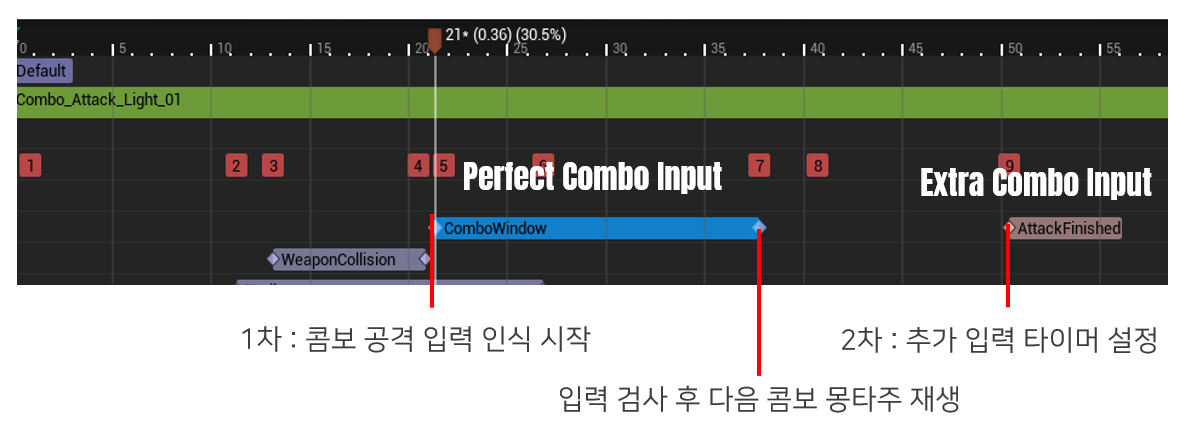
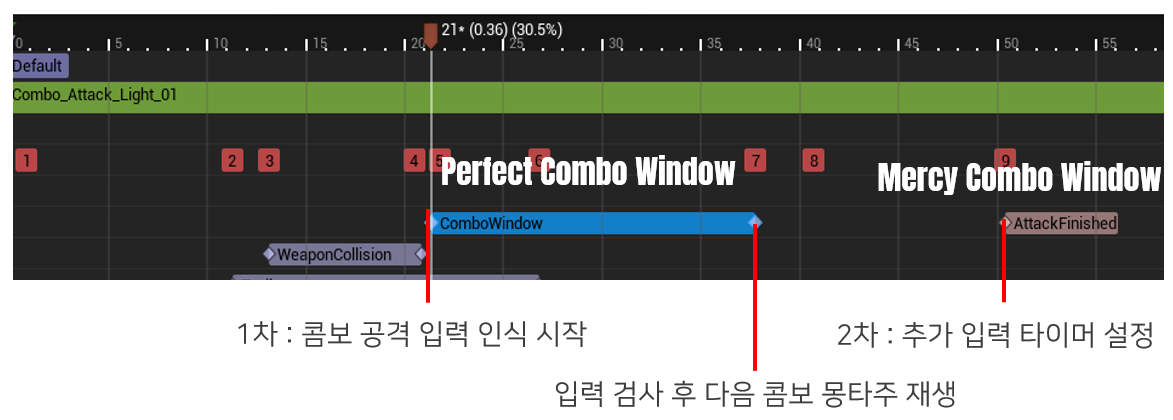
update readme

diff --git a/README.md b/README.md
@@ -35,9 +35,9 @@
 
 ## 📜 목차
 1. [Unreal Engine 5] Action RPG Project "Soul"
-2. [Dedicated Server Project] FPS Game
-3. [Team Project] Unreal Engine ver 'Overooked! 2' 모작
-4. [Custom Engine Projects] DirectX 11 2D 'HollowKnight' / WinAPI 'The Binding of Isaac'
+2. [[Dedicated Server Project] FPS Game](#-2-dedicated-server-project-fps-game)
+3. [[Team Project] Unreal Engine ver 'Overooked! 2' 모작](#-3-team-project-unreal-engine-ver-overooked-2-모작)
+4. [[Custom Engine Projects] DirectX 11 2D 'HollowKnight' 모작 / WinAPI 'The Binding of Isaac' 모작](#-4-custom-engine-projects-directx-11-2d-hollowknight-모작--winapi-the-binding-of-isaac-모작)
 
 </br>
 
@@ -63,7 +63,7 @@
 
 </br>
 
-이 프로젝트는 기능 구현보다 **구조**에 대한 고민을 담은 프로젝트입니다. </br>
+이 프로젝트는 게임 개발 **구조**에 대한 고민을 담은 프로젝트입니다. </br>
 `Tick` 사용을 최소화하고, 입력과 애니메이션 이벤트(`AnimNotify`)를 트리거로 로직을 순환시키는 이벤트 기반(Event-Driven) 구조를 목표로 삼았습니다.
 
 
@@ -175,6 +175,10 @@ ___
 
 특히 `PrimaryDataAsset`을 상속받아 필요한 시점에 비동기 로드할 수 있는 구조를 마련했습니다.
 
+<p align="center">
+ <img alt="이미지" src="readme\DataAsset1.png">
+</p>
+
 </br>
 
 **🔧구현 상세**
@@ -185,6 +189,10 @@ ___
     - [MontageActionData 코드](https://github.com/kabu0330/UE_Soul2/blob/a50d719eae8d32e24b870c4d6342dd97015d2f46/Source/Soul/DataAsset/MontageActionData.h#L11-L47)
 
 **[💡 회고 및 개선점]** 전투 시스템이 고도화되면서(백어택, 잡기 등) `FMontageGroup` 내에 발동 조건 필드가 늘어나는 현상을 겪었습니다. 모든 스킬이 해당 조건을 쓰지 않음에도 구조체가 비대해지는 문제가 있어, 추후에는 조건 검사 로직 자체를 별도의 객체나 컴포넌트로 분리하는 **데코레이터 패턴**을 도입할 예정입니다.
+
+<p align="center">
+ <img alt="이미지" src="readme\DataAsset2.png">
+</p>
 
 </br>
 
@@ -214,10 +222,10 @@ ___
  <img alt="이미지" src="readme\ComboWindow.png">
 </p>
 
-* 퍼펙트 콤보 구현: 애니메이션 시퀀스 내에 `AnimNotifyState`를 배치하여 입력 허용 구간을 시각적으로 설정하고, 해당 구간 내 입력 감지 시 즉시 몽타주 재생을 중단하고 다음 콤보를 실행합니다.
+* 퍼펙트 콤보(선입력) 구현: 애니메이션 시퀀스 내에 `AnimNotifyState`를 배치하여 입력 허용 구간을 시각적으로 설정하고, 해당 구간 내 입력 감지 시 즉시 몽타주 재생을 중단하고 다음 콤보를 실행합니다.
     - [Perfect Combo Window: 콤보 공격 선입력 실행 코드](https://github.com/kabu0330/UE_Soul2/blob/a50d719eae8d32e24b870c4d6342dd97015d2f46/Source/Soul/Components/CombatComponent.cpp#L225-L257)
     - [Perfect Combo Window: NotifyEnd() 시점 호출 코드](https://github.com/kabu0330/UE_Soul2/blob/a50d719eae8d32e24b870c4d6342dd97015d2f46/Source/Soul/Components/CombatComponent.cpp#L300-L319)
-* 자비 구간(선입력) 구현: 애니메이션 종료 직전부터 일정 시간(`Timer`) 동안 입력 플래그를 활성화하여, 뒤늦게 들어온 입력도 다음 콤보의 트리거로 인정합니다.
+* 자비 구간 구현: 애니메이션 종료 직전부터 일정 시간(`Timer`) 동안 입력 플래그를 활성화하여, 뒤늦게 들어온 입력도 다음 콤보의 트리거로 인정합니다.
     - [Mercy Combo Window 코드](https://github.com/kabu0330/UE_Soul2/blob/a50d719eae8d32e24b870c4d6342dd97015d2f46/Source/Soul/Components/CombatComponent.cpp#L279-L292)
 * 통합 공격 로직: 위 두 가지 입력 방식을 하나의 `DoAttack` 함수에서 분기 처리하여, 현재 콤보 카운트와 입력 시점에 따라 적절한 다음 행동을 결정합니다.   
     - [실제 Player 공격 함수(DoAttack) 코드](https://github.com/kabu0330/UE_Soul2/blob/a50d719eae8d32e24b870c4d6342dd97015d2f46/Source/Soul/Character/SoulPlayerCharacter.cpp#L245-L304)
@@ -271,8 +279,6 @@ ___
 
 </br>
 
-___
-
 #### 프로젝트 관련 글(Blog)
 
 * [인벤토리 시스템과 UI](https://kabu0129.tistory.com/378)
@@ -282,7 +288,7 @@ ___
 
 </br>
 
-___
+
 
 ## 📄 2. [Dedicated Server Project] FPS Game
 
@@ -301,7 +307,7 @@ ___
 | 항목 | 내용 | 항목 | 내용 |
 |:------|:-----|:-----|:-----|
 | 🖥 **플랫폼** | PC (Windows) | 🎮 **장르** | FPS |
-| 👤 **개발 인원** | 1인 | 📅 **개발 기간** | 2025.06 ~ 2025.08 |
+| 👤 **개발 인원** | 1인 | 📅 **개발 기간** | 2025.05 ~ 2025.08 |
 | 🛠 **기술 스택** | C++, Node.js, Unreal Engine 5, AWS, Rider, Git |
 | 📝 **게임 소개** | 최대 10인의 플레이어가 경쟁하는 1인칭 슈팅게임 |
 | 🎯 **핵심 목표** | 서버-클라이언트 아키텍처 및 AWS 클라우드 인프라 실전 경험 | | 
@@ -452,7 +458,7 @@ Dedicated Server는 게임 플레이 자체에 집중해야 하므로, 사용자
 
 <div style="display: flex; justify-content: space-between;">
   <img src="readme\Reflection2.png" alt="이미지 1 설명" style="width: 35%;" />
-  <img src="readme\Reflection3.png" alt="이미지 2 설명" style="width: 55%;" />
+  <img src="readme\Reflection3.png" alt="이미지 2 설명" style="width: 60%;" />
 </div>
 
 </br>
@@ -463,7 +469,7 @@ Dedicated Server는 게임 플레이 자체에 집중해야 하므로, 사용자
 
 </br>
 
-___
+
 
 #### 프로젝트 관련 글(Blog)
 
@@ -473,7 +479,7 @@ Dedicated Sever와 관련한 작업은 블로그에 과정을 기록해두었습
 
 </br>
 
-___
+
 
 ## 📄 3. [Team Project] Unreal Engine ver 'Overooked! 2' 모작
 
@@ -491,7 +497,7 @@ ___
 |:------|:-----|:-----|:-----|
 | 🖥 **플랫폼** | PC (Windows) | 🎮 **장르** | 시뮬레이션 |
 | 👤 **개발 인원** | 6인 | 📅 **개발 기간** | 2025.02 ~ 2025.05 |
-| 🛠 **개발 도구** | C++, Unreal Engine 5 |
+| 🛠 **개발 도구** | C++, Unreal Engine 5, Visual Studio, Git |
 | 📝 **게임 소개** | 최대 4인의 플레이어가 함께 재료를 전달/손질/조합하여 </br> 제한 시간 내에 최대한 많은 요리를 제출하는 협동 게임|
 | 🎯 **핵심 목표** | 협업 방식을 학습하고 멀티 플레이어 게임을 구현하는 방법을 습득 | | 
 | 📑 **주요 특징** | 데이터 기반 요리 컨텐츠 개발, 레벨 디자인, RPC / Replication | | 
@@ -508,24 +514,68 @@ ___
 
 **🚨 문제 상황**
 
-플레이어 상호작용으로 런타임에 생성되는 재료(Ingredient) 액터가 클라이언트 화면에서 보이지 않거나, 데이터(메시, 타입 등)가 비정상적으로 표시되는 문제가 발생했습니다. 원인은 SpawnActor 호출 시, 서버에서는 데이터 설정 전에 BeginPlay가 실행되고, 클라이언트에서는 데이터가 복제되기 전에 BeginPlay가 실행되는 등 초기화와 복제 타이밍의 불일치 때문이었습니다.
+플레이어 상호작용으로 런타임에 생성되는 재료(`Ingredient`) 액터가 클라이언트 화면에서 보이지 않거나, 데이터(메시, 타입 등)가 비정상적으로 표시되는 문제가 발생했습니다. 원인은 `SpawnActor` 호출 시, 서버에서는 데이터 설정 전에 `BeginPlay`가 실행되고, 클라이언트에서는 데이터가 복제되기 전에 `BeginPlay`가 실행되는 등 초기화와 복제 타이밍의 불일치 때문이었습니다.
 
 </br>
 
 **💭 해결 방안**
 
-액터 생성과 초기화를 분리하는 지연 스폰(Deferred Spawn) 방식을 도입했습니다. SpawnActorDeferred를 사용하여 액터를 메모리에 먼저 할당한 뒤, 필요한 Replicated 데이터(예: 재료 타입)를 설정하고, 마지막으로 FinishSpawning을 호출하여 BeginPlay가 실행되도록 했습니다. 이로써 BeginPlay 시점에는 모든 데이터가 안전하게 복제된 상태임을 보장했습니다.
+액터 생성과 초기화를 분리하는 지연 스폰(Deferred Spawn) 방식을 도입했습니다. `SpawnActorDeferred`를 사용하여 액터를 메모리에 먼저 할당한 뒤, 필요한 Replicated 데이터(예: 재료 타입)를 설정하고, 마지막으로 `FinishSpawning`을 호출하여 `BeginPlay`가 실행되도록 했습니다. 이로써 `BeginPlay` 시점에는 모든 데이터가 안전하게 복제된 상태임을 보장했습니다.
 
+**❌ 기존 방식 (SpawnActor)**
+```mermaid
+sequenceDiagram
+    participant Server
+    participant Network
+    participant Client
+    
+    Note over Server: SpawnActor 호출
+    Server->>Server: 액터 생성
+    Server->>Server: BeginPlay 실행 ⚠
+    Server->>Server: 데이터 설정 (IngredientType 등)
+    Server->>Network: 액터 복제 시작
+    
+    Network->>Client: 액터 생성 알림
+    Client->>Client: 액터 생성
+    Client->>Client: BeginPlay 실행 ⚠
+    Note over Client: 데이터 아직 복제 안됨!
+    Network-->>Client: 데이터 복제 (지연됨)
+    
+    Note over Client: 메시/타입 정보 없음화면에 안보이거나비정상 표시
+```
+
+**✅ 개선 방식 (SpawnActorDeferred)**
+```mermaid
+sequenceDiagram
+    participant Server
+    participant Network
+    participant Client
+    
+    Note over Server: SpawnActorDeferred 호출
+    Server->>Server: 액터 메모리 할당
+    Server->>Server: 데이터 설정 (IngredientType 등)
+    Server->>Server: FinishSpawning 호출
+    Server->>Server: BeginPlay 실행 ✅
+    Note over Server: 모든 데이터 준비 완료
+    Server->>Network: 액터 복제 시작
+    
+    Network->>Client: 액터 + 데이터 복제
+    Client->>Client: 액터 생성
+    Note over Client: 복제된 데이터 수신 완료
+    Client->>Client: BeginPlay 실행 ✅
+    
+    Note over Client: 메시/타입 정보 정상화면에 올바르게 표시
+```
 
 </br>
 
 **🔧구현 상세**
 
 - 서버: SpawnActorDeferred → Replicated 변수 설정 → FinishSpawning 호출 순서로 구현.
-    - []
+    - [Server 재료 스폰 코드](https://github.com/kabu0330/UE_Overcooked2/blob/fa2b9ce77865d74c9d8ebb40c070b3c568b2ac21/Overcooked2/Source/Overcooked2/Global/Component/SpawnManageComponent.cpp#L18-L38)
 
 - 클라이언트: BeginPlay에서 이미 복제된 데이터를 안전하게 사용하여 메시와 아이콘을 설정.
-    - []
+    - [Ingredient 초기화 코드](https://github.com/kabu0330/UE_Overcooked2/blob/fa2b9ce77865d74c9d8ebb40c070b3c568b2ac21/Overcooked2/Source/Overcooked2/LevelContent/Cook/Ingredient.cpp#L32-L107)
 
  **[💡 회고 및 개선점]** 이 경험을 통해 멀티플레이어 환경에서 객체의 생명주기(Lifecycle)와 네트워크 복제 순서를 이해하는 것이 얼마나 중요한지 깨달았습니다. 단순히 변수를 Replicated로 설정하는 것을 넘어, "언제" 복제되고 "언제" 사용되는지를 고려하는 설계 시각을 갖게 되었습니다.
 
@@ -553,26 +603,33 @@ ___
 * 김 - 완제품
 * 밥 - 끓이기
 
-재료는 타입과 상태로 손쉽게 정의할 수 있었습니다. 문제는 원작 게임은 조리 과정을 여러 번 거치는 재료가 존재한다는 
-점입니다. 해당 문제는 데이터 테이블의 구조체가 타입과 상태를 배열로 정의한다는 규칙을 추가하여 해결했습니다.
+재료는 타입과 상태로 손쉽게 정의할 수 있었습니다. 문제는 원작 게임은 조리 과정을 여러 번 거치는 재료가 존재한다는 점입니다. 해당 문제는 데이터 테이블의 구조체가 타입과 상태를 배열로 정의한다는 규칙을 추가하여 해결했습니다.
+
+<p align="center">
+ <img alt="이미지" src="readme\Ingredient.png" width = 90% >
+</p>
 
 </br>
 
-**2). 접시가 곧 요리다.**
+**2). 접시 == 요리**
 
-원작 게임의 재밌는 규칙 중 하나가, "재료의 조합은 접시 위에서만 가능하다"는 것입니다. 이 점에 착안해 요리라는 개념의 모든 기능을 `Plate` 클래스 하나로 정리했습니다. 이로써 요리 컨텐츠는 재료와 접시, 조리도구 세 개의 클래스로 컨텐츠를 완성할 수 있습니다.
+원작 게임의 재밌는 규칙 중 하나가, "재료의 조합은 접시 위에서만 가능하다"는 것입니다. 이 점에 착안해 요리라는 개념의 모든 기능을 접시(`Plate`) 클래스 하나로 정리했습니다. 이로써 요리 컨텐츠는 재료와 접시, 조리도구 세 개의 클래스로 컨텐츠를 완성할 수 있습니다.
 
 접시는 재료의 타입과 상태를 배열로 저장하고 해당 데이터를 서버에 넘겨 데이터 테이블에서 조회 후 메시만 바꾸는 객체입니다.
+
+<p align="center">
+ <img alt="이미지" src="readme\Recipe.png" width = 90% >
+</p>
 
 </br>
 
 **🔧구현 상세**
 
-* 재료 데이터 테이블
+* [재료 데이터 테이블 구현 코드](https://github.com/kabu0330/UE_Overcooked2/blob/fa2b9ce77865d74c9d8ebb40c070b3c568b2ac21/Overcooked2/Source/Overcooked2/Global/Data/IngredientDataTable.h#L11-L53)
 
-* 요리 데이터 테이블
+* [요리 데이터 테이블 구현 코드](https://github.com/kabu0330/UE_Overcooked2/blob/fa2b9ce77865d74c9d8ebb40c070b3c568b2ac21/Overcooked2/Source/Overcooked2/Global/Data/RecipeDataTable.h#L11-L36)
 
-* 레시피 대조
+* [요리 조합 검사 코드](https://github.com/kabu0330/UE_Overcooked2/blob/fa2b9ce77865d74c9d8ebb40c070b3c568b2ac21/Overcooked2/Source/Overcooked2/Global/OC2GameInstance.cpp#L354-L416)
 
 
  **[💡 회고 및 개선점]** 데이터 기반 설계를 통해 새로운 요리를 추가할 때 코드 수정 없이 데이터 테이블 행(Row)만 추가하면 되는 유연한 시스템을 구축할 수 있었습니다. 이를 통해 기획자가 직접 밸런싱과 콘텐츠 추가를 할 수 있는 환경을 마련하여 팀 전체의 개발 효율성을 높였습니다.
@@ -611,11 +668,11 @@ ___
 
 </br>
 
-___
 
-### 🔭 [DirectX 11] 2D 액션 게임 프로젝트 (Hollow Knight 모작)
-### 📸 Gif
 
+## 📄 4. [Custom Engine Projects] DirectX 11 2D 'HollowKnight' 모작 / WinAPI 'The Binding of Isaac' 모작
+
+### [DirectX 11] 2D 'HollowKnight' 모작
 <p align="center">
  <img alt="이미지" src="readme\HollowKnight.gif">
 </p>
@@ -623,33 +680,27 @@ ___
 * 🔗 [Youtube](https://youtu.be/vi6KnUeedrs?si=nJsI59Pi36cGy-Rn)
 * 🔗 [Github](https://github.com/kabu0330/DX_HollowKnight2)
 
-### 📋 프로젝트 정보
-<details>
-<summary><b>📖 상세 정보 펼치기</b></summary>
+</br>
+
+📋 프로젝트 정보
 
 | 항목 | 내용 | 항목 | 내용 |
 |:------|:-----|:-----|:-----|
 | 🖥 **플랫폼** | PC (Windows) | 🎮 **장르** | 액션, 메트로베니아 |
 | 👤 **개발 인원** | 1인 | 📅 **개발 기간** | 2024.11 ~ 2025.02 |
-| 🛠 **개발 도구** | C++|
-| 📝 **게임 소개** | 액션 기반 전투 게임|
+| 🛠 **개발 도구** | C++, Visual Studio, Git, ImGUI |
+| 📝 **게임 소개** | 액션 기반 전투 게임 |
+| 🎯 **핵심 목표** | DirectX 11를 활용한 게임 개발 | | 
+| 📑 **주요 특징** | Actor-Component 패턴(Actor/Scene, FSM, Renderer, Collision, TimeEvent 등) | | 
 
-### 💻 작업 내용
 
-| 분류 | 상세 내용 |
-|:-----|:----------|
-| **컨텐츠** | 캐릭터, 몬스터, 맵, 이펙트 및 스킬, UI |
-| **기타** | FSM, 멀티 스레드 로딩 |
-
-</details>
-
-### 🎯 작업 목표
+**🎯 작업 목표**
 **상용 엔진 프레임워크 이해 및 그래픽 프로그래밍 기초 습득**
 - 게임 엔진의 구조 분석 및 활용
 - Actor-Component 패턴 기반 게임 제작
 - 이벤트 기반 상태 관리(FSM Component)
 
-### 📊 핵심 성과
+**📊 핵심 성과**
 - ✅ UE5 프레임워크 구조 이해 (Engine Core, Level, GameMode, Actor, Component)
 - ✅ DirectX 11 렌더링 파이프라인 흐름 이해
 - ✅ 상속 기반 기능 구현(AEffect, ASkill, AParticle, AKnightSkill, AMonsterSkill)
@@ -662,8 +713,7 @@ ___
 
 ___
 
-### 🔭 [Win API] 슈팅 게임 프로젝트(The Binding of Isaac 모작)
-### 📸 Gif
+**[WinAPI] 'The Binding of Isaac'모작**
 
 <p align="center">
  <img alt="이미지" src="readme\Isaac.webp">
@@ -672,24 +722,18 @@ ___
 * 🔗 [Youtube](https://youtu.be/Uf7M80sdum0?si=vpmTN5Q4YahdKVrY)
 * 🔗 [Github](https://github.com/kabu0330/WinAPI)
 
-### 📋 프로젝트 정보
-<details>
-<summary><b>📖 상세 정보 펼치기</b></summary>
+</br>
 
+📋 프로젝트 정보
 | 항목 | 내용 | 항목 | 내용 |
 |:------|:-----|:-----|:-----|
 | 🖥 **플랫폼** | PC (Windows) | 🎮 **장르** | 슈팅 |
 | 👤 **개발 인원** | 1인 | 📅 **개발 기간** | 2024.07 ~ 2024.11 |
-| 🛠 **개발 도구** | C++|
+| 🛠 **개발 도구** | C++, Visual Studio, Git |
 | 📝 **게임 소개** | 아이템을 수집하고 조합하며 슈팅 게임 |
-
-### 💻 작업 내용
-
-| 분류 | 상세 내용 |
-|:-----|:----------|
-| **컨텐츠** | 캐릭터, 몬스터, 맵, 이펙트 및 스킬, UI |
-
-</details>
+| 📝 **게임 소개** | 스태미나 기반 전투 액션 게임 | | 
+| 🎯 **핵심 목표** | 게임 기능 구현 학습, 자료구조 활용, 선형대수학 활용 | | 
+| 📑 **주요 특징** | 상속 기반 구조, Enum-State | | 
 
 ### 🎯 작업 목표
 **게임을 제작하는 기본 구조 학습**
@@ -705,10 +749,6 @@ ___
 > 💡 **배운 점**: 어떻게 프로그램이 운영체제에서 동작하는지에 대한 밑그림을 그릴 수 있었습니다. 게임을 직접 제작해보며 물리 세계를 구현하는데 수학이 어떻게 쓰이는지 이해할 수 있게 되었습니다.
 
 </br>
-
-
-
-
 
 ___
 
